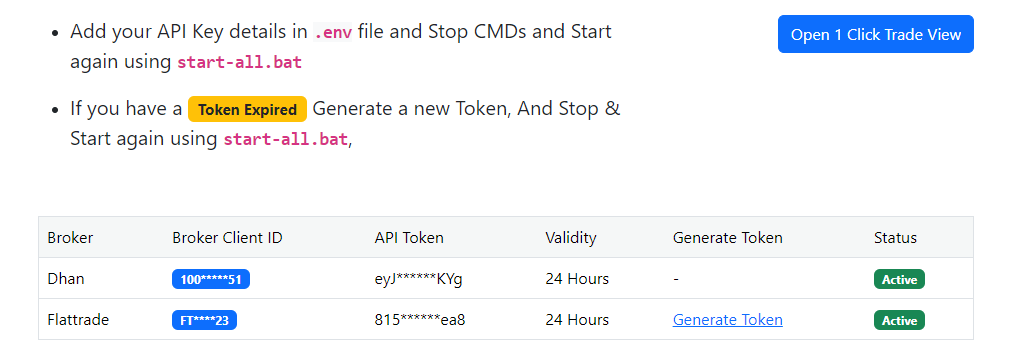
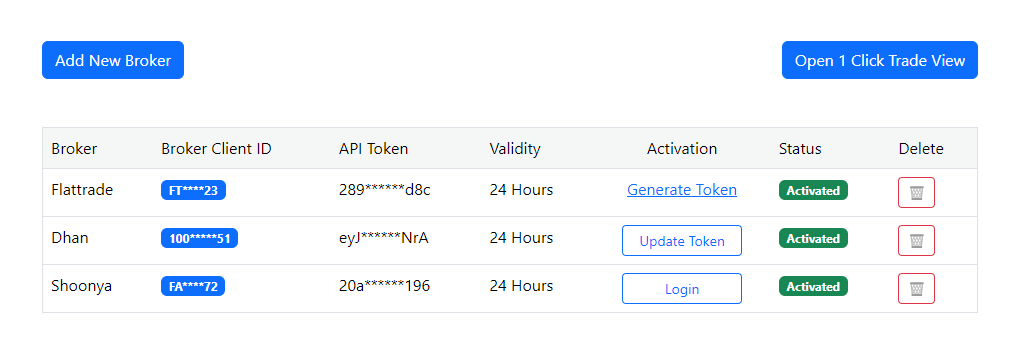
new screenshot, update readme

diff --git a/readme.md b/readme.md
@@ -6,31 +6,41 @@ This repository is a monorepo containing three main projects:
 2. [**steadfast-stoic-api**](https://github.com/narenkram/steadfast-stoic-api): The backend API server.
 3. [**steadfast-websocket**](https://github.com/narenkram/steadfast-websocket): The WebSocket service.
 
-### Quick Status: (Updated on 13-07-2024)
+Legend:
+🟢 Available/Implemented
+🟡 In Progress
+🔵 Planned
 
-- Dhan - 🟢 Partial Trading Capabilities
-- Flattrade - 🟢 Partial Trading Capabilities
-- Shoonya (Finvasia) - 🟡 Implementation on progress
-- Websocket - 🟢 Available for Flattrade
-- Multiple Websocket - 🔵 Will add soon
+### Quick Status (Updated: 14-07-2024)
 
-### What works? (Updated on 13-07-2024)
+| Broker             | Trading Capabilities | Realtime Market LTP |
+| ------------------ | -------------------- | ------------------- |
+| Flattrade          | 🟢 Available         | 🟢 Available        |
+| Shoonya (Finvasia) | 🟢 Available         | 🔵 Planned          |
+| Dhan               | 🟢 Available         | 🟡 In Progress      |
 
-👉 All these basic operations now work well for `flattrade`, you can trade [NIFTY, BANKNIFTY, FINIFTY]:
+### What Works? (Updated: 14-07-2024)
 
-- ✅ kill switch
-- ✅ buy/sell market price
-- ✅ cancel orders
-- ✅ place limit on dropdown
-- ✅ select strikes
-- ✅ close all positions
-- ✅ 1 click buttons for buy/sell/cancel/close
-- ✅ ltp for underlying, selected call/put strikes 
-- ✅ automatic atm strike selection 
+| Feature                           | Flattrade | Shoonya (Finvasia) | Dhan |
+| --------------------------------- | --------- | ------------------ | ---- |
+| **Trading Operations**            |
+| Buy/Sell at market price          | 🟢        | 🟢                 | 🟢   |
+| Place limit orders                | 🟢        | 🟢                 | 🟢   |
+| Cancel orders                     | 🟢        | 🟢                 | 🟢   |
+| Close all positions               | 🟢        | 🟢                 | 🟢   |
+| One-click trading buttons         | 🟢        | 🟢                 | 🟢   |
+| **Order Management**              |
+| Kill switch (client-side)         | 🟢        | 🟢                 | 🟢   |
+| Select strikes                    | 🟢        | 🟢                 | 🟢   |
+| Automatic ATM strike selection    | 🟢        | 🟢                 | 🟢   |
+| **Real-Time Market Data**         |
+| LTP for underlying                | 🟢        | 🔵                 | 🔵   |
+| LTP for selected call/put strikes | 🟢        | 🔵                 | 🔵   |
 
 #### Note:
 
-kill switch works on client side only, you will still be able to trade from your broker terminal.
+- kill switch works on client side only, you will still be able to trade from your broker terminal.
+- All these symbols can be traded: NIFTY, BANKNIFTY, FINIFTY, MIDCPNIFTY NIFTYNXT50, SENSEX, BANKEX and SENSEX50.
 
 # App Screenshots
 
@@ -42,6 +52,10 @@ kill switch works on client side only, you will still be able to trade from your
 
 ![Preview in Dark Mode](preview_dark.png)
 
+## Add Broker
+
+![Preview in Add Broker](preview_addbroker_light.png)
+
 ## Light Mode
 
 ![Preview in Light Mode](preview_light.png)
@@ -50,22 +64,6 @@ kill switch works on client side only, you will still be able to trade from your
 
 Stay updated by joining our [Telegram Channel](https://t.me/steadfaststoic).
 
-### Get your API Key from your Broker and replace API Key in steadfast-stoic-api/.env
-
-```
-DHAN_CLIENT_ID = "Your_Dhan_Client_ID"
-DHAN_API_TOKEN = "Your_Dhan_API_Token"
-
-
-FLATTRADE_CLIENT_ID = "Your_Flattrade_Client_ID"
-FLATTRADE_API_KEY = "Your_Flattrade_API_Key"
-FLATTRADE_API_SECRET = "Your_Flattrade_API_Secret"
-```
-
-### Redirect URL for API
-
-- `http://localhost:5173/redirect?`
-- Register this redirect URL in your broker's API Key creation process.
 
 ## Steps to run the app
 
